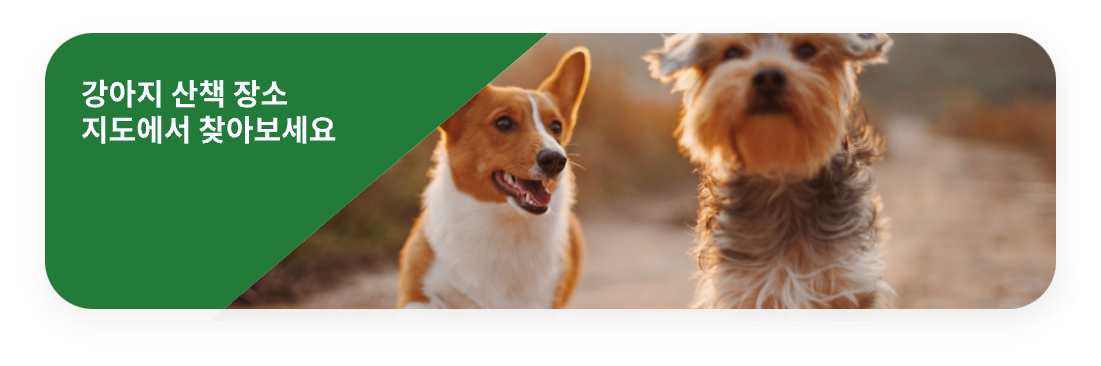
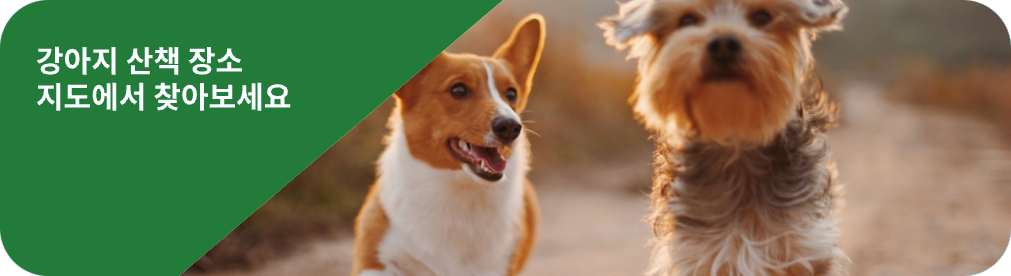
배너 이미지 변경

diff --git a/src/components/home/Banner.tsx b/src/components/home/Banner.tsx
@@ -24,7 +24,8 @@ export default Banner;
 const rootStyle = css`
   display: flex;
   flex-direction: column;
-  margin-top: 23px;
+  margin-top: 24px;
+  gap: 12px;
   img {
     width: 100%;
   }
